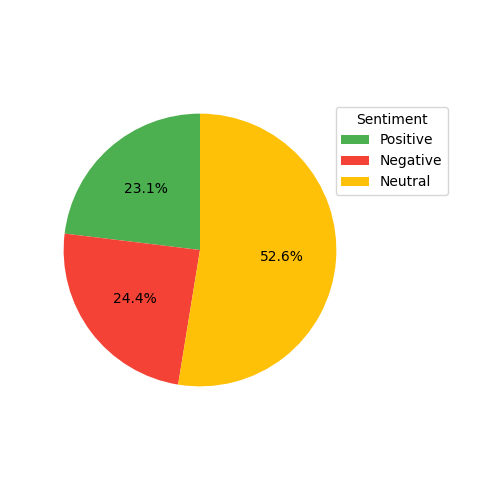
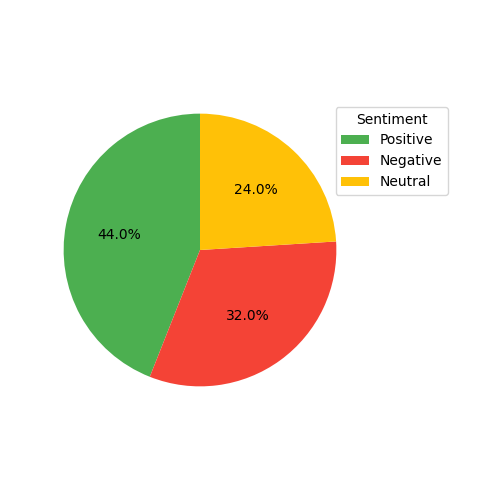
Added Random text

Changed region(s): [[0.12, 0.45, 0.69, 0.78], [0.45, 0.36, 0.57, 0.39], [0.24, 0.36, 0.33, 0.39]]

diff --git a/static/script.js b/static/script.js
@@ -89,6 +89,12 @@ function updateValue(value) {
     fetchComments(value);
 }
 
+function updateValue2(value) {
+    document.getElementById("sliderValue2").textContent = value; // Update displayed value
+
+    // Call fetchComments() to get updated comments
+    fetchComments(value);
+}
 // Logo setting up 
 let iconDiv = document.querySelector(".icon");
 iconDiv.style.backgroundSize = "cover";
@@ -109,7 +115,7 @@ function handleSearch() {
     let inputText = inputSearch.value;
     let choice = displayOpt.textContent;
     let numComments = document.getElementById("slider").value;
-
+    let numComments2 = document.getElementById("slider2").value;
     if (!inputText) {
         alert("Please enter text or a YouTube URL.");
         return;
@@ -120,7 +126,7 @@ function handleSearch() {
     fetch("/process", {
         method: "POST",
         headers: { "Content-Type": "application/json" },
-        body: JSON.stringify({ text: inputText, option: choice, max_results: parseInt(numComments) })
+        body: JSON.stringify({ text: inputText, option: choice, max_results: parseInt(numComments) ,max_comments:parseInt(numComments2)})
     })
     .then(response => response.json())
     .then(data => {

diff --git a/templates/index.html b/templates/index.html
@@ -106,6 +106,8 @@
                 <h2>Wanna increase the count of comments?</h2>
                 <input type="range" id="slider" min="10" max="100" value="10" oninput="updateValue(this.value)">
             <span id="sliderValue">10</span>
+            
+            </div>
             </div>
             
 
@@ -119,7 +121,11 @@
             <p id="error-text">An error occurred. Please try again.</p>
             <button class="error-btn" onclick="closeError()">Close</button>
         </div>
-        <div class="add"><p></p></div>
+        <div class="add"><p></p>
+            <div class="scale2">
+                <h2>Wanna increase the count of comments?</h2>
+                <input type="range" id="slider2" min="0" max="80" value="0" oninput="updateValue2(this.value)">
+            <span id="sliderValue2">0</span></div>
     </div>
     
     

diff --git a/static/style.css b/static/style.css
@@ -456,3 +456,21 @@ button:hover {
     right:4%;
     top:20%;
 }
+
+.scale2{
+    width:40%;
+    display: flex;
+    justify-content: center;
+    align-items: center;
+    flex-direction: column;
+    position: absolute;
+    bottom:0%;
+    left:4%;
+
+}
+.scale2 h2{
+    
+    font-size: 90%;
+    margin: 10px;
+    text-align: center;
+}

diff --git a/app.py b/app.py
@@ -27,6 +27,7 @@ def process():
     input_text=data.get("text","").strip()
     global_option=data.get("option","")
     max_results = int(data.get("max_results", 10)) 
+    max_comments=int(data.get("max_comments",0))
 
     print(f"Received Data: {data}")  # Debug print
     print(f"Text:{global_input_text},Option: {global_option}")
@@ -47,7 +48,8 @@ def process():
     
     
     elif global_option.lower() == "random":
-        # global_input_text=sentence_generator(max_results)
+        if(max_comments>0):
+            global_input_text=sentence_generator(max_comments)
         pos, neg, neu = statistical_analyzer(global_input_text)
 
     else:
